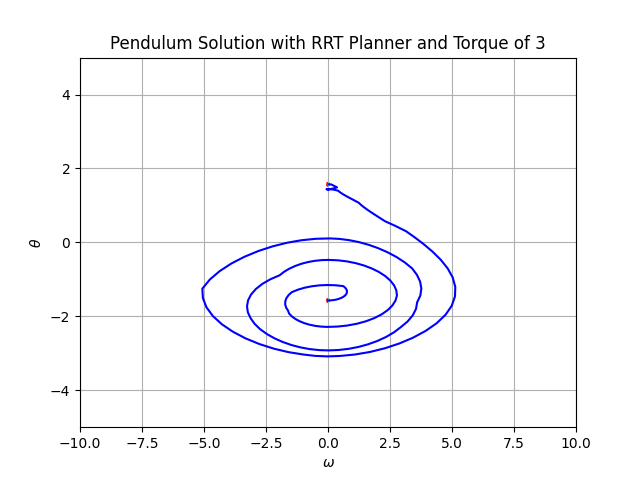
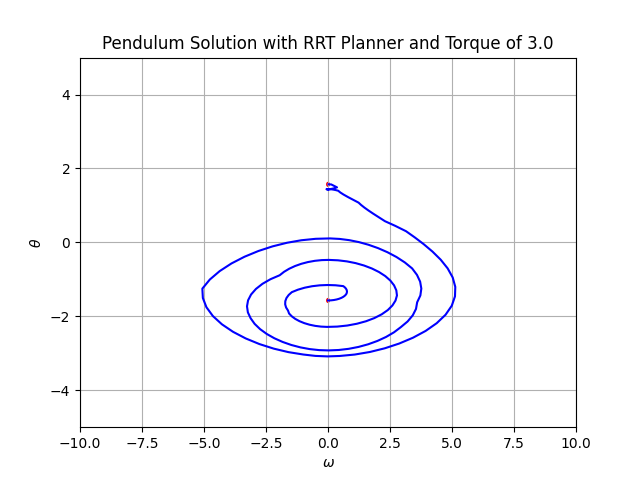
fix figures bug

Changed region(s): [[0.1562, 0.0625, 0.875, 0.125]]

diff --git a/projects/project4/Project4Visualization.py b/projects/project4/Project4Visualization.py
@@ -60,7 +60,7 @@ def parse_log_files(path_file, env_file, bounds_file, pendulum, car, car_length,
             bounds_add.extend(bounds_nums)
     env_bounds = numpy.array(bounds_add, dtype=numpy.float64)
 
-    control_bounds_nums = [val for val in control_bounds]
+    control_bounds_nums = [float(val) for val in control_bounds.strip().split()]
 
     return path_arr, env_arr, env_bounds, start_goal_nums, control_bounds_nums
     
@@ -107,7 +107,7 @@ def gen_path_vis(path_arr, env_arr, env_bounds, start_goal, pendulum, car, file_
     plt.grid()
     
     if (pendulum):
-        plt.title('Pendulum Solution with ' + planner + ' Planner and Torque of ' + control_bounds[0])
+        plt.title('Pendulum Solution with ' + planner + ' Planner and Torque of ' + str(control_bounds[0]))
         plt.xlabel(f'$\\omega$')
         plt.ylabel(f'$\\theta$')
         plt.savefig('figures/pendulum/pathenv' + file_num + '.png')
